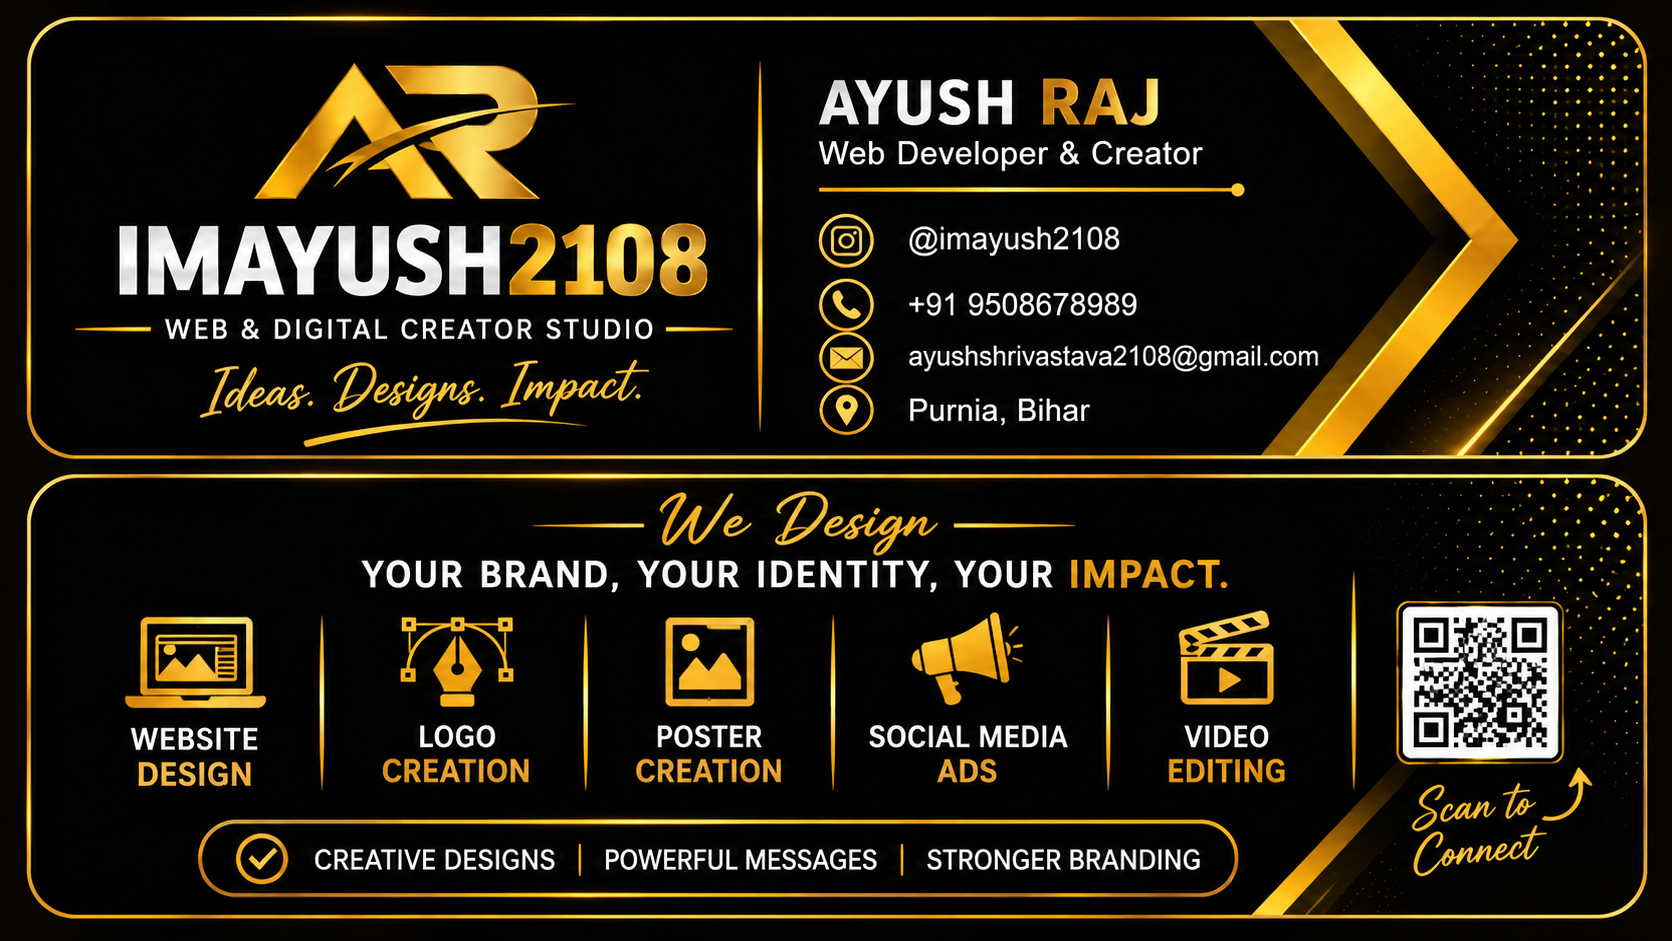
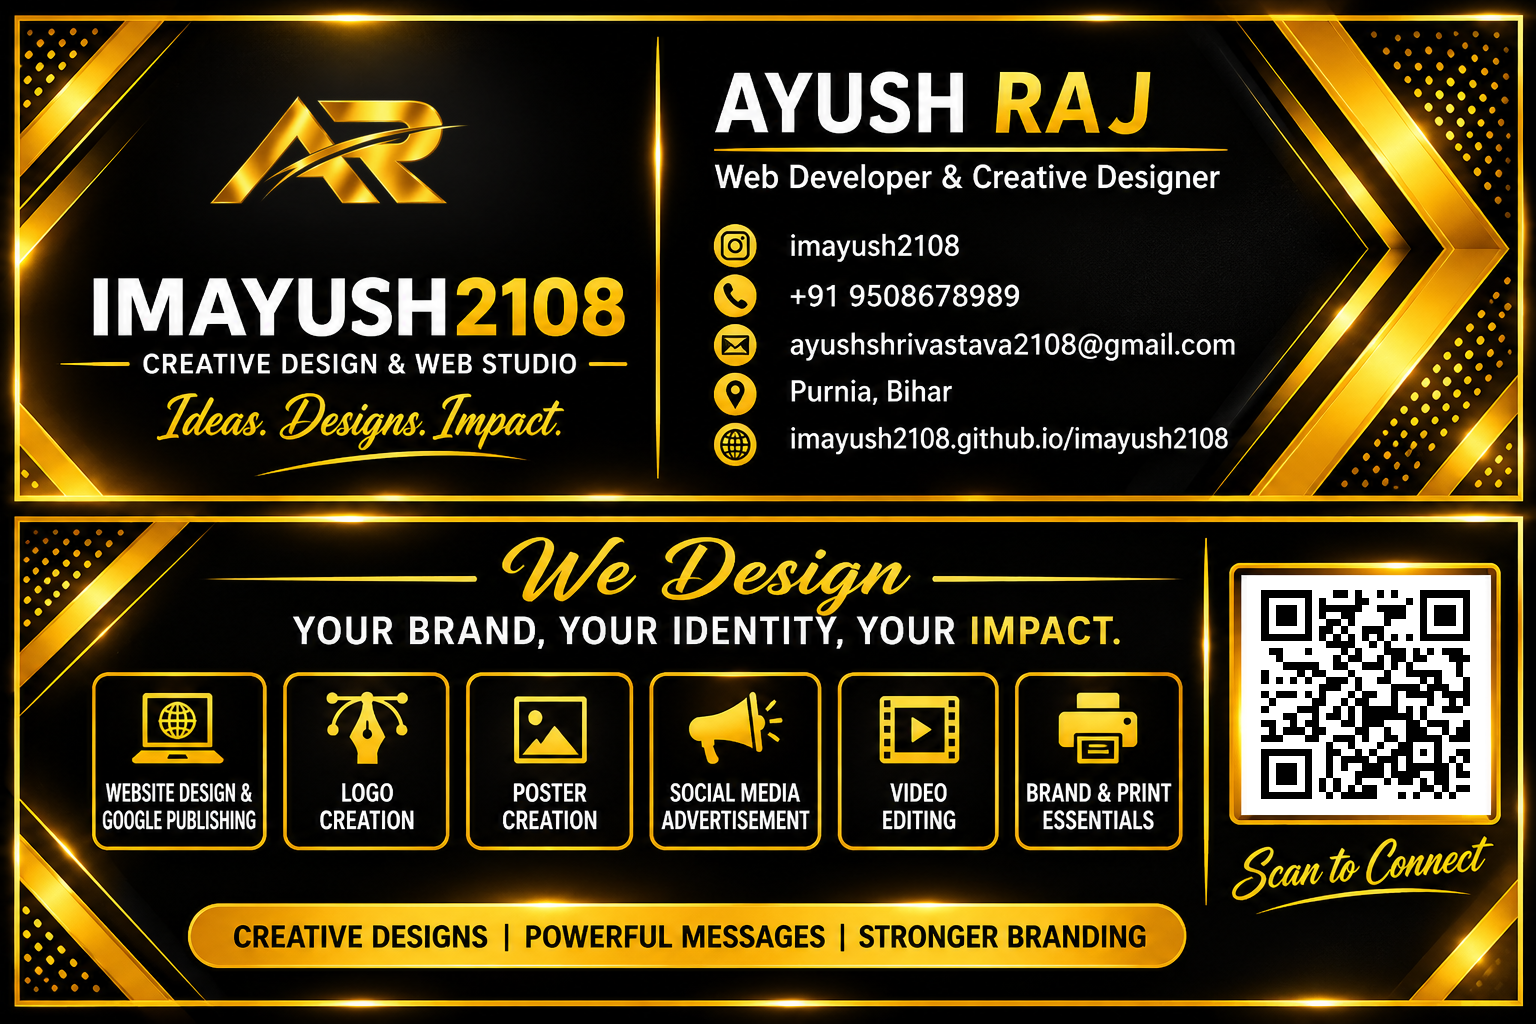
Full site update for IMAYUSH2108: clean bio without @, card, and metadata

diff --git a/index.html b/index.html
@@ -6,7 +6,7 @@
   <title>IMAYUSH2108</title>
   <meta name="description" content="Portfolio of Ayush Raj (IMAYUSH2108) — Web Developer & Creative Designer in Purnia, Bihar." />
   <meta name="keywords" content="Ayush Raj, imayush2108, IMAYUSH2108, Web Developer Purnia Bihar, Creative Designer, Website Design and Google Publishing, Logo Creation, Poster Creation, Social Media Advertisement, Video Editing, freeCodeCamp Developer, Canva Certified" />
-  <meta name="author" content="Ayush Raj (@imayush2108)" />
+  <meta name="author" content="Ayush Raj (IMAYUSH2108)" />
   <meta name="robots" content="index, follow" />
   <meta name="google-site-verification" content="UpifjCqtHk_JjlJ7Hsev4ubX3rUAi0uWuKIG1eLWQ4w" />
   <meta name="theme-color" content="#070709" />
@@ -14,7 +14,7 @@
 
   <!-- Open Graph / Social Sharing -->
   <meta property="og:type" content="website" />
-  <meta property="og:title" content="Ayush Raj (@imayush2108) — Certified Web Developer & Creative Designer" />
+  <meta property="og:title" content="Ayush Raj (IMAYUSH2108) — Certified Web Developer & Creative Designer" />
   <meta property="og:description" content="Portfolio of Ayush Raj (IMAYUSH2108) — Web Developer & Creative Designer in Purnia, Bihar." />
   <meta property="og:image" content="https://imayush2108.github.io/imayush2108/assets/profile/ayush-raj-profile.png" />
   <meta property="og:image:alt" content="Ayush Raj (IMAYUSH2108) Profile Photo" />
@@ -22,7 +22,7 @@
 
   <!-- Twitter Card -->
   <meta name="twitter:card" content="summary_large_image" />
-  <meta name="twitter:title" content="Ayush Raj (@imayush2108) — Certified Web Developer & Creative Designer" />
+  <meta name="twitter:title" content="Ayush Raj (IMAYUSH2108) — Certified Web Developer & Creative Designer" />
   <meta name="twitter:description" content="Portfolio of Ayush Raj (IMAYUSH2108) — Web Developer & Creative Designer in Purnia, Bihar." />
   <meta name="twitter:image" content="https://imayush2108.github.io/imayush2108/assets/profile/ayush-raj-profile.png" />
   <meta name="twitter:image:alt" content="Ayush Raj (IMAYUSH2108) Profile Photo" />
@@ -651,13 +651,13 @@
           <span class="section-kicker">Official Identity</span>
           <h2 class="section-title">Official <span class="text-gold">Visiting Card</span></h2>
           <p class="section-subtitle">
-            Save or inspect the official @imayush2108 studio visiting card for quick access to contact details and services.
+            Official visiting card of Ayush Raj (IMAYUSH2108) — Web Developer &amp; Creative Designer in Purnia, Bihar. View services, scan to connect, or save the card.
           </p>
         </div>
 
         <div class="vcard-showcase reveal">
           <div class="vcard-frame" id="vcardTrigger" role="button" tabindex="0" aria-label="Open Official Visiting Card in full screen">
-            <img src="assets/card/ayush-raj-visiting-card.png" alt="Ayush Raj (@imayush2108) Official Visiting Card" class="vcard-img" />
+            <img src="assets/card/ayush-raj-visiting-card.png?v=2" alt="Ayush Raj (IMAYUSH2108) Official Visiting Card" class="vcard-img" />
             <div class="vcard-overlay">
               <span class="vcard-zoom-badge">
                 <svg width="18" height="18" viewBox="0 0 24 24" fill="none" stroke="currentColor" stroke-width="2" stroke-linecap="round" stroke-linejoin="round" aria-hidden="true">
@@ -675,7 +675,7 @@
             <button
               type="button"
               class="btn btn--outline-gold"
-              data-lightbox-src="assets/card/ayush-raj-visiting-card.png"
+              data-lightbox-src="assets/card/ayush-raj-visiting-card.png?v=2"
               data-lightbox-title="Ayush Raj — Official Visiting Card"
               data-lightbox-meta="IMAYUSH2108 • Web & Digital Creator Studio • Purnia, Bihar"
               data-lightbox-url=""
@@ -689,7 +689,7 @@
               <span>Full-Screen Zoom</span>
             </button>
 
-            <a href="assets/card/ayush-raj-visiting-card.png" download="Ayush-Raj-Visiting-Card.png" class="btn btn--gold">
+            <a href="assets/card/ayush-raj-visiting-card.png?v=2" download="Ayush-Raj-Visiting-Card.png" class="btn btn--gold">
               <svg width="18" height="18" viewBox="0 0 24 24" fill="none" stroke="currentColor" stroke-width="2.2" stroke-linecap="round" stroke-linejoin="round" aria-hidden="true">
                 <path d="M21 15v4a2 2 0 0 1-2 2H5a2 2 0 0 1-2-2v-4"></path>
                 <polyline points="7 10 12 15 17 10"></polyline>
@@ -811,7 +811,7 @@
             <div class="about-photo-frame">
               <img
                 src="assets/profile/ayush-raj-profile.png"
-                alt="Ayush Raj (@imayush2108) Profile Portrait"
+                alt="Ayush Raj (IMAYUSH2108) Profile Portrait"
                 class="about-photo"
               />
             </div>

diff --git a/script.js b/script.js
@@ -128,7 +128,7 @@
   if (vcardTrigger) {
     const openVcard = () => {
       openLightbox({
-        src: "assets/card/ayush-raj-visiting-card.png",
+        src: "assets/card/ayush-raj-visiting-card.png?v=2",
         title: "Ayush Raj — Official Visiting Card",
         meta: "IMAYUSH2108 • Web & Digital Creator Studio • Purnia, Bihar",
         url: ""
